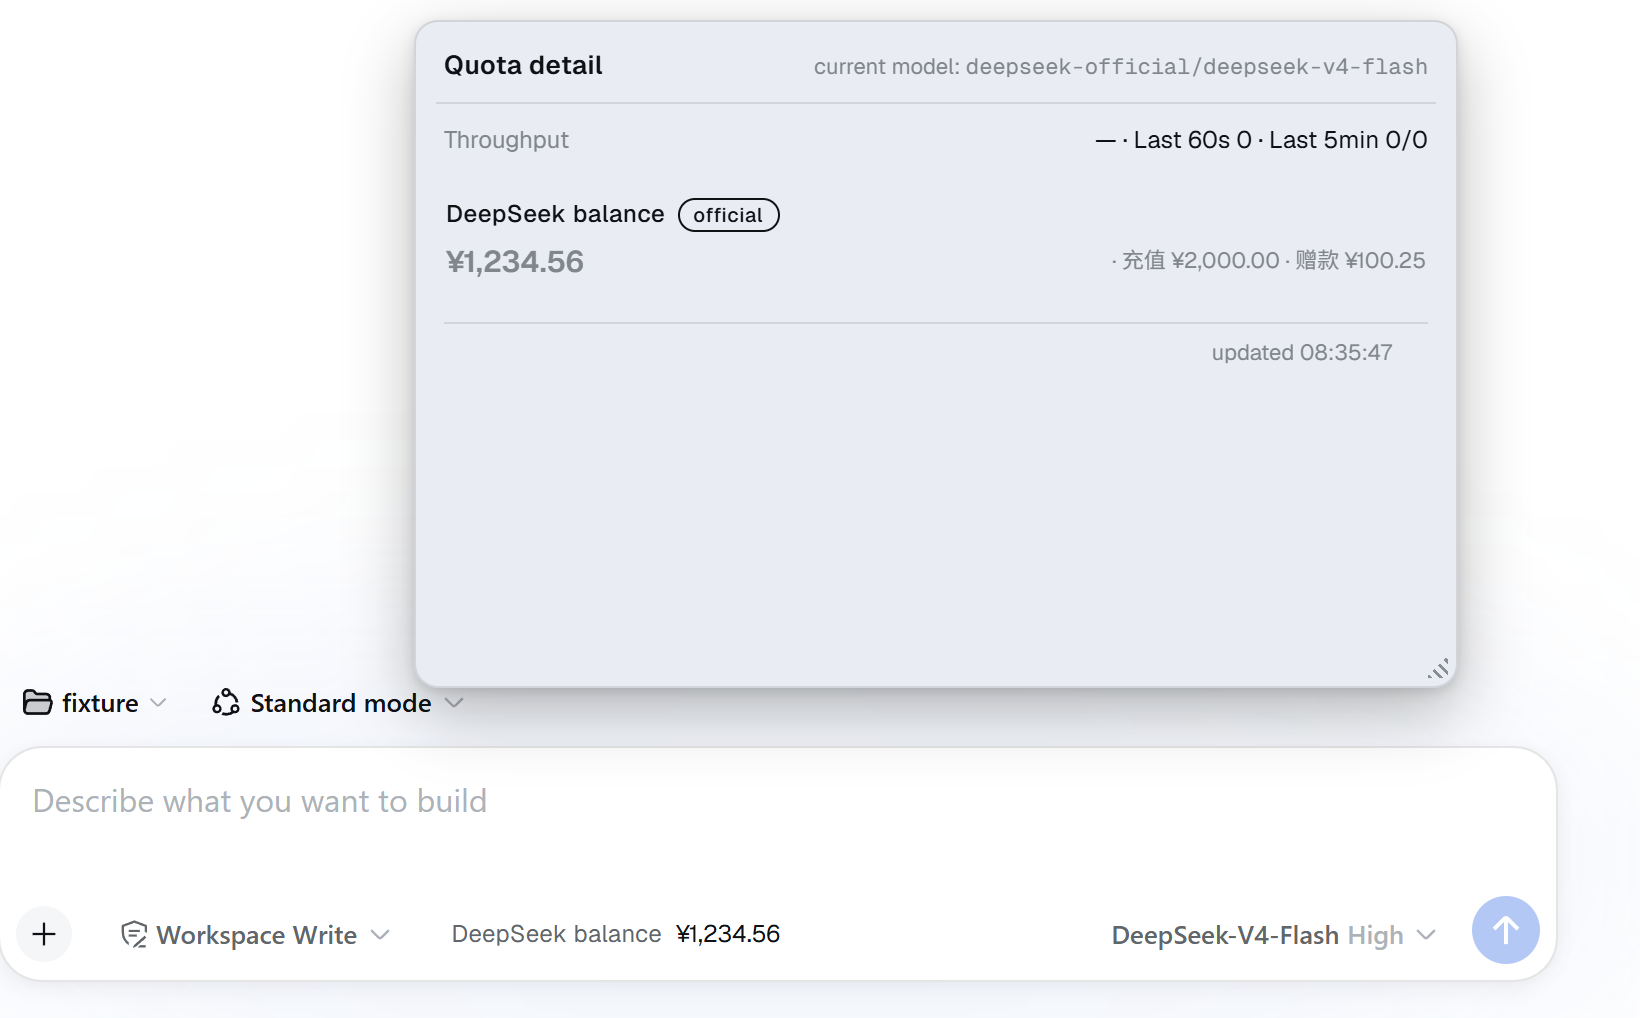
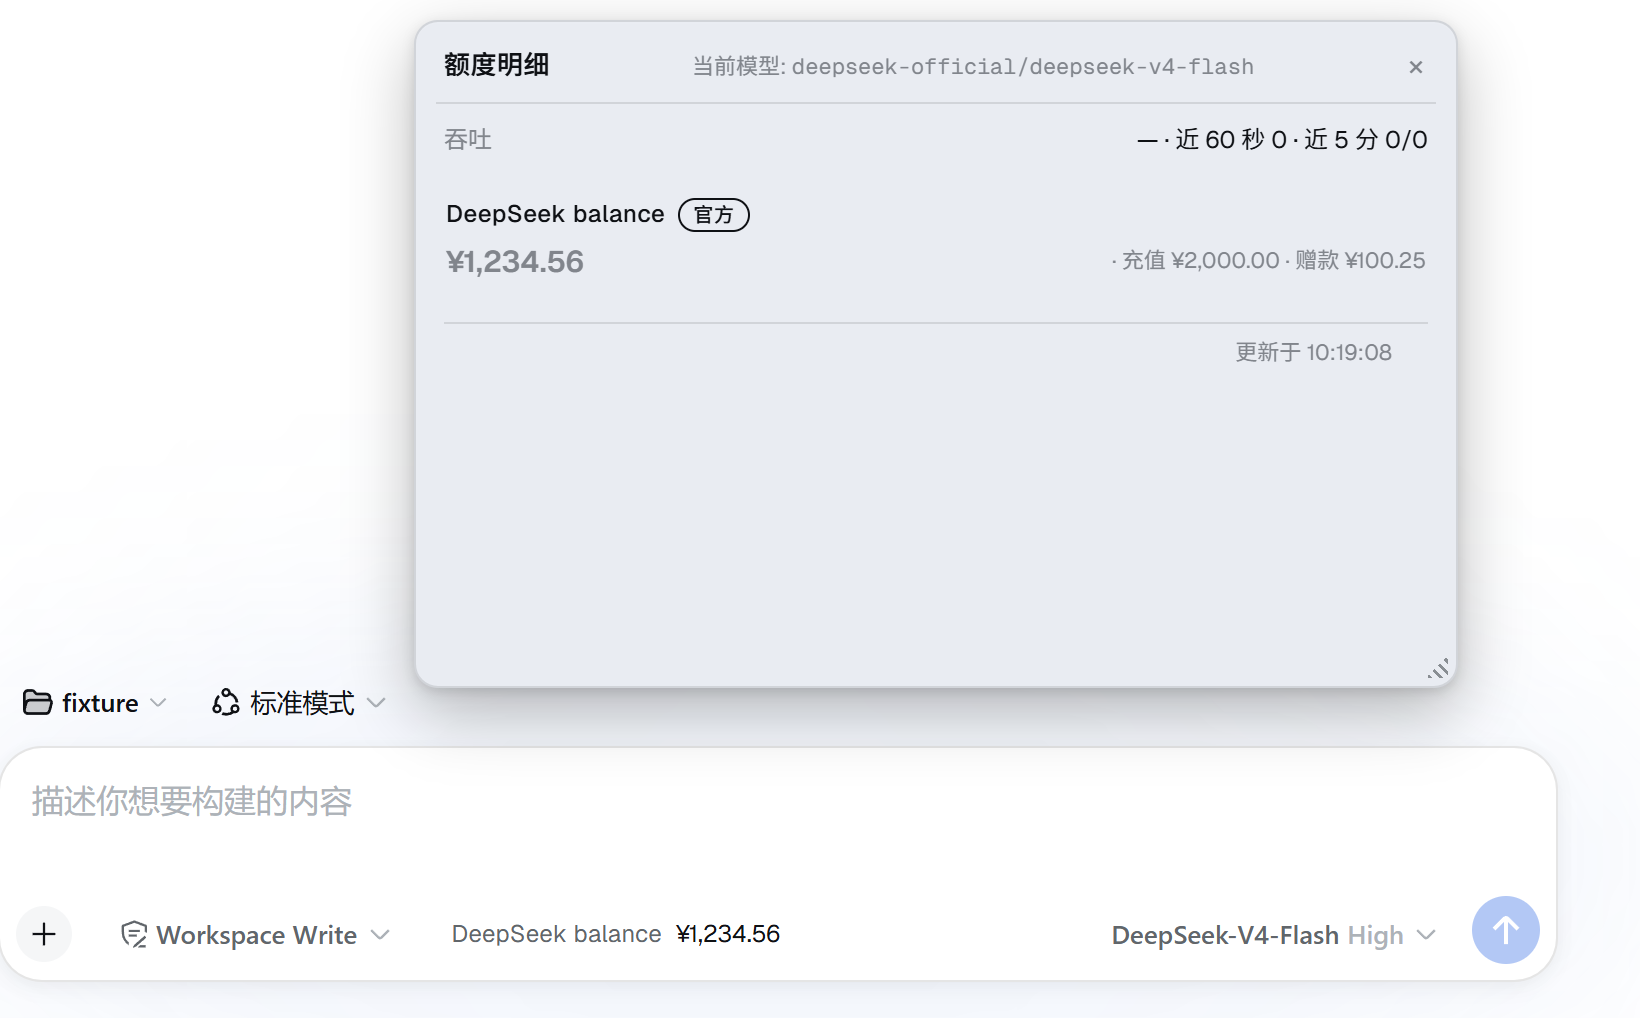
fix(ui): 徽标不再挤折输入行，面板加 ✕，英文界面不再印中文
三件事，都来自实机反馈。

1) 明细面板标题栏加关闭用的 ✕。此前只有"再点徽标"和 Esc 两条路径，都在，
   但都得先知道这个习惯。测试锁住四点：按钮在、带 aria-label、自己挡下
   pointerdown（标题栏整条是拖拽把手，不挡就被 beginDrag 捕获），以及它没把
   拖拽把手替掉。

2) 徽标会把输入框那一行挤换行（模型选择器被顶到第二行）。量清楚了：宿主那一行
   是固定宽 778px 的居中列，右边 trailing（模型选择器 + 发送）222px、左边除徽标外
   209px，实测折行阈值 317px，而徽标自然宽度 345px。两层修法缺一不可：
   - flex item 的 min-width 默认 auto，先让整条链允许收缩；
   - 但**只收缩不够**——那一行是 flex-wrap:wrap，分行按各项 base size 决定，
     收缩只发生在分行之后，所以必须给硬上限：312px。
   超出时只裁供应商名（完整名一直在 title 里），数字与「实测」pill 用 flex:none 保住。
   顺带修掉重复：window:<provider> 生成的标签是 `minimax-cn 实测`，右边 pill 又写一遍
   「实测」，白占 ~40px。现在标签只写供应商名，minimax-cn 全家桶自然宽度降到 296px，
   常见供应商名一行放得下且不截断。

3) 英文界面里印着中文字符。formatTokens 的单位写死「万/亿」，英文徽标长成
   `84.7万 tok … measured in5d`。现在紧凑单位跟着界面语言走（2.3万 / 23K）。
   没给 formatTokens 加 copy 参数：它有 14 个调用点，漏一个就是同屏两种单位。
   同时修 pickLocale：原来"两个来源里任一说 zh 就算 zh"，中文系统 + 英文界面的
   用户会看到中文徽标嵌在全英文界面里；现在以宿主写的 <html lang> 为准。

截图全部重拍（标签变了、单位变了）：英文套现在是真的全英文。README 顶部那段
ASCII 示意图原来把余量条和「实测」画在同一枚徽标上，正好违反"没分母就不画条"的
立场——改成并排两行，官方一行、实测一行，把差异直接摆出来。

截图流水线两处加固（都是它自己翻过车的地方）：
- 「内测声明」模态的标题候选不再只按 --lang 取（宿主语言与浏览器语言不是一回事）；
- deepClick 加重试，换模型统一走 switchModel，失败时把当前可见菜单贴进报错。

回归锁共 3 条新增：标签不重复「实测」（host）、徽标上限 ≤ 实测阈值 317px、
中英单位各是 23K / 2.3万（client）。README 里的测试计数跟着改成 351/116。

diff --git a/lib/client.js b/lib/client.js
@@ -100,6 +100,8 @@ window.__ModuleLoader__.load({
         tokPerSec: "tok/s",
         dragTip: "按住标题栏可拖到任意位置悬浮，双击标题栏归位",
         resizeTip: "拖拽调整面板大小",
+        close: "关闭",
+        closeTip: "关闭明细面板（也可以再点一次徽标，或按 Esc）",
         capTotal: "额度上限",
       },
       en: {
@@ -144,15 +146,29 @@ window.__ModuleLoader__.load({
         tokPerSec: "tok/s",
         dragTip: "Drag the title bar to float it anywhere; double-click to re-anchor",
         resizeTip: "Drag to resize the panel",
+        close: "Close",
+        closeTip: "Close the detail panel (click the chip again, or press Esc)",
       },
     };
 
+    /**
+     * token 的紧凑单位跟着界面语言走。写死「万/亿」时英文界面会印出 `84.7万 tok`
+     * ——给英文读者看一个中文字符。用模块内变量而不是给 `formatTokens` 加参数：
+     * 它有 14 个调用点，漏一个就是同一屏里两种单位并存。
+     */
+    let cjkTokenUnits = true
+
     function pickLocale() {
-      const tags = [
-        typeof document !== "undefined" ? document.documentElement?.lang : "",
-        typeof navigator !== "undefined" ? navigator.language : "",
-      ].filter(Boolean);
-      return tags.some(tag => String(tag).toLowerCase().startsWith("zh")) ? COPY.zh : COPY.en;
+      // 以 `<html lang>` 为准，拿不到才退回浏览器语言。
+      // 之前是"两个来源里有任何一个说 zh 就算 zh"：宿主语言是用户在设置里选的
+      // （locale 插件把它写进 `<html lang>`），浏览器语言只是操作系统默认——
+      // 一个中文系统 + 英文界面的用户，徽标会自己挑中文，和整屏英文对不上。
+      const declared = typeof document !== "undefined" ? document.documentElement?.lang : "";
+      const browser = typeof navigator !== "undefined" ? navigator.language : "";
+      const tag = String(declared || browser || "").toLowerCase();
+      const table = tag.startsWith("zh") ? COPY.zh : COPY.en;
+      cjkTokenUnits = table === COPY.zh;
+      return table;
     }
 
     /* ------------------------------------------------------------ 格式化 */
@@ -163,10 +179,18 @@ window.__ModuleLoader__.load({
     function formatTokens(value) {
       if (typeof value !== "number" || !Number.isFinite(value)) return "—";
       const abs = Math.abs(value);
-      if (abs >= 1e8) return `${(value / 1e8).toFixed(2)}亿`;
+      if (cjkTokenUnits) {
+        if (abs >= 1e8) return `${(value / 1e8).toFixed(2)}亿`;
+        if (abs >= 1e6) return `${(value / 1e6).toFixed(2)}M`;
+        if (abs >= 1e4) return `${(value / 1e4).toFixed(1)}万`;
+        if (abs >= 1000) return value.toLocaleString("en-US", { maximumFractionDigits: 0 });
+        return String(Math.round(value * 100) / 100);
+      }
+      // 拉丁单位：≥1e4 直接取整到 K（847K 而不是 847.0K），1e3~1e4 留一位小数（1.2K）。
+      if (abs >= 1e9) return `${(value / 1e9).toFixed(2)}B`;
       if (abs >= 1e6) return `${(value / 1e6).toFixed(2)}M`;
-      if (abs >= 1e4) return `${(value / 1e4).toFixed(1)}万`;
-      if (abs >= 1000) return value.toLocaleString("en-US", { maximumFractionDigits: 0 });
+      if (abs >= 1e4) return `${Math.round(value / 1e3)}K`;
+      if (abs >= 1e3) return `${(value / 1e3).toFixed(1)}K`;
       return String(Math.round(value * 100) / 100);
     }
 
@@ -471,15 +495,23 @@ window.__ModuleLoader__.load({
 
     function cssText() {
       return `
-.tpq{display:inline-flex;align-items:center;gap:4px;position:relative;
+.tpq{display:inline-flex;align-items:center;gap:4px;position:relative;min-width:0;
  --tpq-font:"Geist Variable","Noto Sans SC Variable","Aptos","Segoe UI Variable Text","Segoe UI",
   "PingFang SC","Microsoft YaHei UI","Microsoft YaHei",system-ui,sans-serif;
  --tpq-mono:"Geist Mono Variable","Cascadia Mono","Cascadia Code","SF Mono",Consolas,ui-monospace,SFMono-Regular,monospace;
  font-family:var(--tpq-font)}
+/* 徽标绝不能把宿主的输入行挤到换行。两件事，缺一不可：
+   1. 整条链要允许收缩（flex item 的 min-width 默认 auto，会顶在内容的 min-content 上）；
+   2. 但只收缩不够——宿主那一行是 flex-wrap: wrap，分行按各项的 base size 决定，
+      收缩只发生在分行之后。所以必须给一个硬上限。实测（1150/980/860 窗口都一样，
+      输入列是固定宽的居中列）：徽标 ≤317px 一行，320px 起把模型选择器挤到第二行。
+   上限取 312，留 5px 余量。被裁掉的只能是供应商名（完整名在 title 里），
+   数字与「实测」pill 是产品立场，flex:none 保住。
+   注意：这段在 JS 模板字符串里，注释里不能出现反引号。 */
 .tpq-chip{display:inline-flex;align-items:center;gap:7px;height:24px;padding:0 8px;border-radius:7px;
  border:1px solid transparent;background:transparent;
  color:var(--dsw-alias-label-secondary,inherit);font:inherit;font-size:12px;line-height:1;
- cursor:pointer;white-space:nowrap;max-width:100%;
+ cursor:pointer;white-space:nowrap;min-width:0;max-width:min(312px,100%);overflow:hidden;
  transition:background .2s cubic-bezier(.16,1,.3,1),transform .12s ease}
 .tpq-chip:hover{background:var(--dsw-alias-interactive-bg-hover,rgba(128,128,128,.10))}
 .tpq-chip:active{transform:scale(.98)}
@@ -488,8 +520,9 @@ window.__ModuleLoader__.load({
 .tpq-chip[data-sev=muted]{opacity:.72}
 .tpq-chip[data-busy] .tpq-num{animation:tpq-breathe 1.4s ease-in-out infinite}
 @keyframes tpq-breathe{0%,100%{opacity:1}50%{opacity:.4}}
-.tpq-name{color:var(--dsw-alias-label-secondary,inherit);letter-spacing:.01em}
-.tpq-num{font-variant-numeric:lining-nums,tabular-nums;color:var(--dsw-alias-label-primary,inherit)}
+.tpq-name{color:var(--dsw-alias-label-secondary,inherit);letter-spacing:.01em;
+ flex:0 1 auto;min-width:0;overflow:hidden;text-overflow:ellipsis}
+.tpq-num{font-variant-numeric:lining-nums,tabular-nums;color:var(--dsw-alias-label-primary,inherit);flex:none}
 .tpq-pill{font-size:10px;line-height:15px;padding:0 7px;border-radius:999px;flex:none;letter-spacing:.08em;
  border:1px solid var(--dsw-alias-border-l2,rgba(128,128,128,.3));color:var(--dsw-alias-label-tertiary,inherit)}
 .tpq-pill[data-kind=official]{border-color:var(--dsw-alias-brand-primary,#4176e6);
@@ -503,7 +536,7 @@ window.__ModuleLoader__.load({
 .tpq-speed{font-size:11px;font-variant-numeric:lining-nums,tabular-nums;min-width:5.6em;text-align:right;flex:none;
  padding-left:8px;border-left:1px solid var(--dsw-alias-border-l2,rgba(128,128,128,.24));
  color:var(--dsw-alias-label-secondary,inherit)}
-.tpq-tag{font-size:11px;color:var(--dsw-alias-label-tertiary,inherit);font-variant-numeric:lining-nums,tabular-nums}
+.tpq-tag{font-size:11px;color:var(--dsw-alias-label-tertiary,inherit);font-variant-numeric:lining-nums,tabular-nums;flex:none}
 .tpq-panel{position:absolute;bottom:calc(100% + 6px);left:0;z-index:1000;width:min(380px,88vw);
  --tpq-font:"Geist Variable","Noto Sans SC Variable","Aptos","Segoe UI Variable Text","Segoe UI",
   "PingFang SC","Microsoft YaHei UI","Microsoft YaHei",system-ui,sans-serif;
@@ -539,6 +572,15 @@ window.__ModuleLoader__.load({
 .tpq-panel[data-dragging]{cursor:grabbing;will-change:transform}
 .tpq-panel[data-dragging] .tpq-title{cursor:grabbing}
 .tpq-title>span:first-child{font-weight:600;font-size:13px;letter-spacing:.02em}
+/* 关闭按钮：标题栏整条是拖拽把手，所以它得明确"我不是把手"（cursor:pointer），
+   并且要盖在 meta 那串模型名右边，不跟着 flex 伸长。 */
+.tpq-close{flex:none;width:20px;height:20px;margin:-2px -4px 0 0;padding:0;display:inline-flex;
+ align-items:center;justify-content:center;border:none;border-radius:5px;background:transparent;
+ color:var(--dsw-alias-label-tertiary,inherit);font:inherit;font-size:15px;line-height:1;cursor:pointer;
+ transition:background .15s ease,color .15s ease}
+.tpq-close:hover{background:var(--dsw-alias-interactive-bg-hover,rgba(128,128,128,.16));
+ color:var(--dsw-alias-label-primary,inherit)}
+.tpq-close:focus-visible{outline:2px solid var(--dsw-alias-brand-primary,#4176e6);outline-offset:1px}
 .tpq-card{padding:9px 1px;position:relative;
  animation:tpq-in .32s cubic-bezier(.16,1,.3,1) both;
  animation-delay:calc(40ms + var(--tpq-i,0)*70ms)}
@@ -1075,7 +1117,18 @@ window.__ModuleLoader__.load({
             React.createElement("div", { className: "tpq-title", title: copy.dragTip, onPointerDown: beginDrag, onDoubleClick: resetFloat },
               React.createElement("span", null, copy.detailTitle),
               modelText === null ? null : React.createElement("span", { className: "tpq-meta" },
-                React.createElement("span", { className: "tpq-meta-label" }, `${copy.modelNow}: `), modelText)),
+                React.createElement("span", { className: "tpq-meta-label" }, `${copy.modelNow}: `), modelText),
+              // 常驻小窗没有「点外面就关」，关掉必须由用户决定：再点徽标、Esc，或者这颗叉。
+              // onPointerDown 要挡一下——整条标题栏都是拖拽把手，不挡的话按下就被 beginDrag 捕获，
+              // 点击事件根本轮不到按钮（双击归位同理，所以它只在标题栏的其余区域生效）。
+              React.createElement("button", {
+                type: "button",
+                className: "tpq-close",
+                "aria-label": copy.close,
+                title: copy.closeTip,
+                onPointerDown: event => event.stopPropagation(),
+                onClick: () => setOpen(false),
+              }, "\u00d7")),
             throughput !== null && throughput !== undefined
               ? React.createElement(ThroughputBlock, { tp: throughput, copy })
               : null,

diff --git a/lib/index.js b/lib/index.js
@@ -703,8 +703,9 @@ const PRESETS = {
    * 「经过本实例的真实消耗」，永远标注实测、不冒充官方余量。
    */
   'token-plan-window': {
-    label: 'Token Plan 实测',
-    labelEn: 'Token Plan (measured)',
+    // 「实测」由 pill 标（与 `window:<provider>` 简写同一口径），标签本身不再重复。
+    label: 'Token Plan',
+    labelEn: 'Token Plan',
     kind: 'window',
     metric: 'count',
     providers: ['qwen-token-plan-cn'],
@@ -1036,8 +1037,11 @@ function normalizeSources(raw, ctx, config = {}) {
     if (shorthandProvider !== undefined && shorthandProvider !== '') {
       source.kind = 'window'
       if (!Array.isArray(override.providers)) source.providers = [shorthandProvider]
-      if (override.label === undefined) source.label = `${shorthandProvider} 实测`
-      if (override.labelEn === undefined) source.labelEn = `${shorthandProvider} (measured)`
+      // 标签只写供应商名：「实测」由徽标/卡头那颗 pill 负责（`client.js:639`、`:770`）。
+      // 之前这里是 `${shorthandProvider} 实测`，于是徽标上连着出现两次"实测"
+      // ——`minimax-cn 实测 1.3万 tok … [实测]`，白占 ~40px，正是把输入行挤折行的主因。
+      if (override.label === undefined) source.label = shorthandProvider
+      if (override.labelEn === undefined) source.labelEn = shorthandProvider
       source.sourceNote = source.sourceNote ?? `本实例实测：${shorthandProvider} 未接入可核实的官方额度源，`
         + '此卡只报经过本 DSH 实例的真实消耗（token/次数），不折算、不估算、不代表官方余量。'
     }

diff --git a/CHANGELOG.md b/CHANGELOG.md
@@ -8,6 +8,42 @@ All notable changes to this project are documented here. The format follows
 
 ## [Unreleased]
 
+## [0.4.4] - 2026-09-07
+
+### Added
+
+- **明细面板标题栏加了关闭用的 ✕**（`aria-label` + tooltip，中英各一份）。此前只有"再点一次徽标"和
+  `Esc` 两条关闭路径——都在，但都得先知道这个习惯。测试锁住四件事：按钮在、带可读标签、
+  自己挡下 `pointerdown`（标题栏整条是拖拽把手，不挡就被 `beginDrag` 捕获），以及它没把拖拽把手替掉。
+- 两条回归锁：`test/host.mjs` 断言 `window:<provider>` 的标签只写供应商名；`test/client.mjs` 断言
+  `.tpq-chip` 的 `max-width` 上限存在且 **≤ 实测折行阈值 317px**（写死数字是为了有人放宽前先回去量一遍）。
+
+### Fixed
+
+- **徽标会把输入框那一行挤换行**（模型选择器被顶到第二行）。两层原因，缺一不可修：
+  ① flex item 的 `min-width` 默认 `auto`，徽标顶在自己的内容宽度上不让收缩；
+  ② 更关键——宿主那一行是 `flex-wrap: wrap`，**分行按各项的 base size 决定**，收缩只发生在分行之后，
+  所以光"允许收缩"救不了它。实测（输入列是固定宽的居中列，980/1150/1400 窗口都一样）：
+  徽标 ≤317px 一行，320px 起折行。现在上限取 312px，并给名字加了省略号（完整名一直在 `title` 里），
+  数字与「实测」pill 用 `flex:none` 保住——**能裁的只有供应商名**。
+- **同一枚徽标里出现两次「实测」**：`window:<provider>` 生成的标签是 `minimax-cn 实测`，
+  右边那颗 pill 又写一遍 `实测`。现在标签只写供应商名，「实测」由 pill 负责（徽标与面板卡头都有）。
+  顺带把重复掉的 ~40px 还回来：`minimax-cn` 全家桶的自然宽度从 345px 降到 296px，
+  常见供应商名**一行放得下且不截断**。
+
+- **英文界面里印着中文字符**：`formatTokens` 的单位写死「万/亿」，英文徽标会长成
+  `84.7万 tok … measured in5d` 这种半中半英。现在紧凑单位跟着界面语言走（中文 `2.3万` /
+  英文 `23K`，≥1e9 才用 `B`）。没有给 `formatTokens` 加 `copy` 参数——它有 14 个调用点，
+  漏一个就是同一屏两种单位并存；改成在 `pickLocale()` 里记一次语言风格。
+- **`pickLocale()` 让浏览器语言盖过了宿主语言**：原来是"两个来源里任一说 zh 就算 zh"，
+  于是**中文操作系统 + 英文界面**的用户会看到一枚中文徽标嵌在全英文界面里。
+  现在以宿主自己写的 `<html lang>` 为准，取不到才退回浏览器语言。
+
+### Changed
+
+- 截图全部重拍（标签变了）。README 顶部那段 ASCII 示意图原来把余量条和「实测」画在同一枚徽标上，
+  正好违反本插件"没分母就不画条"的立场——改成并排两行，一行官方、一行实测，把这条差异直接摆出来。
+
 ## [0.4.3] - 2026-09-07
 
 ### Added
@@ -216,6 +252,7 @@ All notable changes to this project are documented here. The format follows
 > 注：本仓库的公开历史始于 0.2.0（根提交即 `feat: dsh-token-plan-quota v0.2`），
 > 0.1.0 没有对应提交，因此**不打 `v0.1.0` tag**——留一个指向不存在的 tag 的链接就是假链接。
 
+[0.4.4]: https://github.com/xinghe-1018/dsh-token-plan-quota/compare/v0.4.3...v0.4.4
 [0.4.3]: https://github.com/xinghe-1018/dsh-token-plan-quota/compare/v0.4.2...v0.4.3
 [0.4.2]: https://github.com/xinghe-1018/dsh-token-plan-quota/compare/v0.4.1...v0.4.2
 [0.4.1]: https://github.com/xinghe-1018/dsh-token-plan-quota/compare/v0.4.0...v0.4.1

diff --git a/README.md b/README.md
@@ -7,9 +7,10 @@
 供应商路由自动决定该开哪些源。
 
 ```
-┌ 输入框工具行 ─────────────────────────────────────────────────┐
-│ Token Plan ▓▓▓▓░ 12.3万 tok │ 42 tok/s  实测  剩5d  ← 点开看明细 │
-└───────────────────────────────────────────────────────────────┘
+输入框工具行里的徽标，跟随当前模型的供应商切换：
+
+  Token Plan ▓▓▓░ 79% 剩5d           官方给了分母 → 画条、报百分比
+  minimax-cn 1.3万 tok 实测 剩7天      没有官方分母 → 只报用了多少，绝不画条、绝不报百分比
 ```
 
 **① 徽标跟随当前模型的供应商切换**——这一家官方接口给真值，切到没有官方额度接口的那家就退回「实测」：
@@ -369,13 +370,13 @@ Key 引用名可在 `sources` 条目里用 `bearerRef` / `cookieRef` 覆盖。
 
 ```bash
 npm run check                      # 下面四步一次跑完
-node test/host.mjs                 # 350 项，离线
-node test/client.mjs               # 102 项，假 React/DOM/fetch
+node test/host.mjs                 # 351 项，离线
+node test/client.mjs               # 116 项，假 React/DOM/fetch
 node scripts/check-manifest.mjs    # 清单自检（安装性、出站主机、许可证、零依赖）
 node scripts/check-docs.mjs        # README 的可核实声明必须与代码一致
 ```
 
-`check-docs` 不是装饰：它把「DEFAULTS 17 个键、配置表 18 行、8 个数据源、声明 8 个出站主机、测试 350/102 项」这些写在 README
+`check-docs` 不是装饰：它把「DEFAULTS 17 个键、配置表 18 行、8 个数据源、声明 8 个出站主机、测试 351/116 项」这些写在 README
 里的数字拿去和代码与实跑结果对，**数字漂了就 CI 红**（已用反向用例验证它真的会失败）。
 
 测试跨平台（临时目录取 `os.tmpdir()`，不依赖真实 `~/.dsh`），CI 跑 node 20/22 × ubuntu/windows/macos，

diff --git a/README.en.md b/README.en.md
@@ -8,9 +8,10 @@ web UI. Official APIs provide the numbers; providers without an official quota e
 decided from the provider routes you actually have.
 
 ```
-┌ composer tool row ──────────────────────────────────────────────┐
-│ Token plan ▓▓▓▓░ 123K tok │ 42 tok/s  measured  5d left  ← click for details │
-└─────────────────────────────────────────────────────────────────┘
+The chip in the composer tool row follows the active model’s provider:
+
+  Token plan ▓▓░ 79% 5d left         the vendor publishes a denominator → bar + percentage
+  minimax-cn 123K tok measured       no official denominator → what was used, never a bar or a percentage
 ```
 
 **① The chip follows the active model's provider** — one route reports an official true value, and switching to a
@@ -426,14 +427,14 @@ see [`SECURITY.md`](SECURITY.md) for details.
 
 ```bash
 npm run check                       # all four steps below
-node test/host.mjs                  # 350 assertions, offline
-node test/client.mjs                # 102 assertions, fake React/DOM/fetch
+node test/host.mjs                  # 351 assertions, offline
+node test/client.mjs                # 116 assertions, fake React/DOM/fetch
 node scripts/check-manifest.mjs     # manifest self-check (installability, outbound hosts, license, zero deps)
 node scripts/check-docs.mjs         # every verifiable claim in the READMEs must match the code
 ```
 
 `check-docs` is not decoration: it takes the numbers written in these READMEs - "17 DEFAULTS keys, an 18-row
-config table, 8 sources, 8 declared outbound hosts, 350/102 tests" - and checks them against the code and a real
+config table, 8 sources, 8 declared outbound hosts, 351/116 tests" - and checks them against the code and a real
 test run, so a drifting
 number turns CI red (verified with a deliberately broken copy that it does fail).
 
